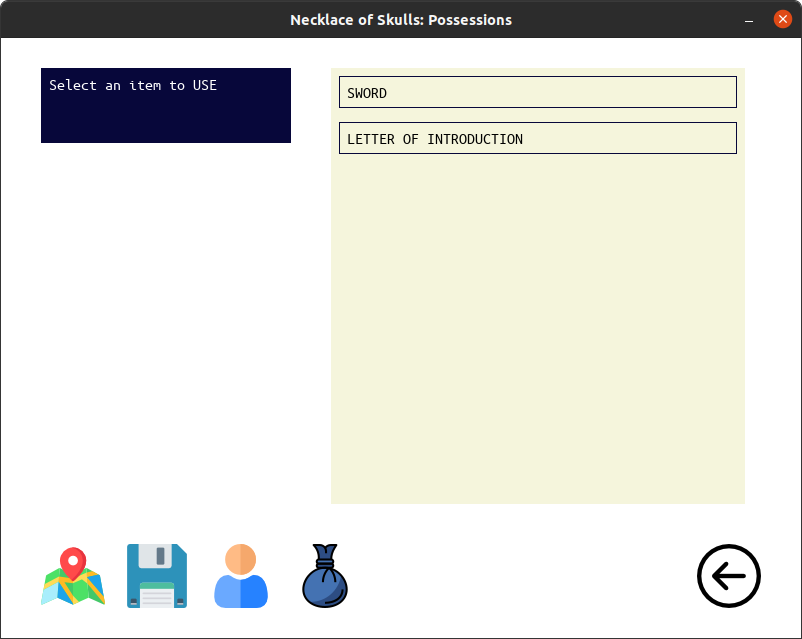
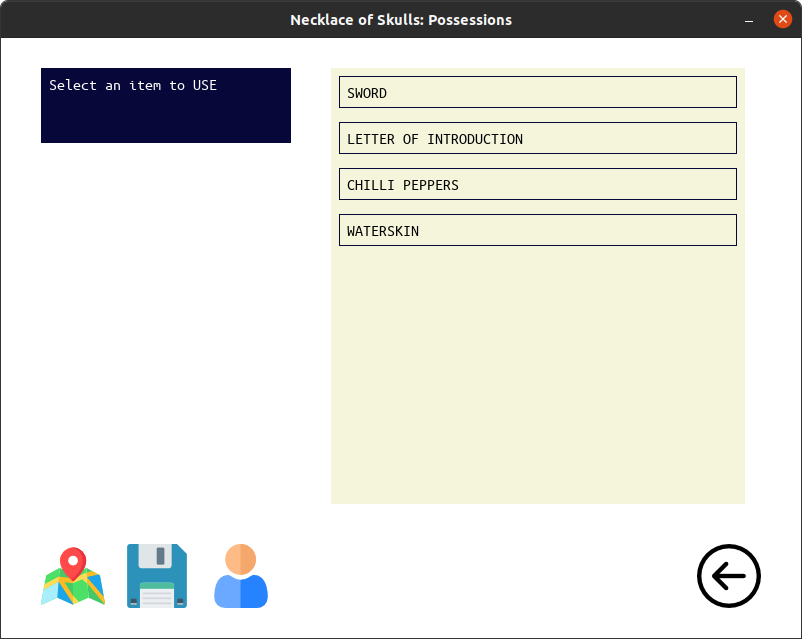
update inventory screen

Changed region(s): [[0.3741, 0.8326, 0.4364, 0.9515], [0.4364, 0.3271, 0.5299, 0.3865], [0.4364, 0.2676, 0.5611, 0.2973]]

diff --git a/src/skulls.cpp b/src/skulls.cpp
@@ -786,8 +786,7 @@ std::vector<Button> createItemControls(Character::Base &player)
     controls.push_back(Button(idx, "images/map.png", idx - 1, idx + 1, idx - 1, idx, startx, buttony, Control::Type::MAP));
     controls.push_back(Button(idx + 1, "images/disk.png", idx, idx + 2, idx - 1, idx + 1, startx + gridsize, buttony, Control::Type::GAME));
     controls.push_back(Button(idx + 2, "images/user.png", idx + 1, idx + 3, idx - 1, idx + 2, startx + 2 * gridsize, buttony, Control::Type::CHARACTER));
-    controls.push_back(Button(idx + 3, "images/items.png", idx + 2, idx + 4, idx - 1, idx + 3, startx + 3 * gridsize, buttony, Control::Type::USE));
-    controls.push_back(Button(idx + 4, "images/back-button.png", idx + 3, idx + 4, idx - 1, idx + 4, (1 - Margin) * SCREEN_WIDTH - buttonw, buttony, Control::Type::BACK));
+    controls.push_back(Button(idx + 3, "images/back-button.png", idx + 2, idx + 3, idx - 1, idx + 3, (1 - Margin) * SCREEN_WIDTH - buttonw, buttony, Control::Type::BACK));
 
     return controls;
 }
